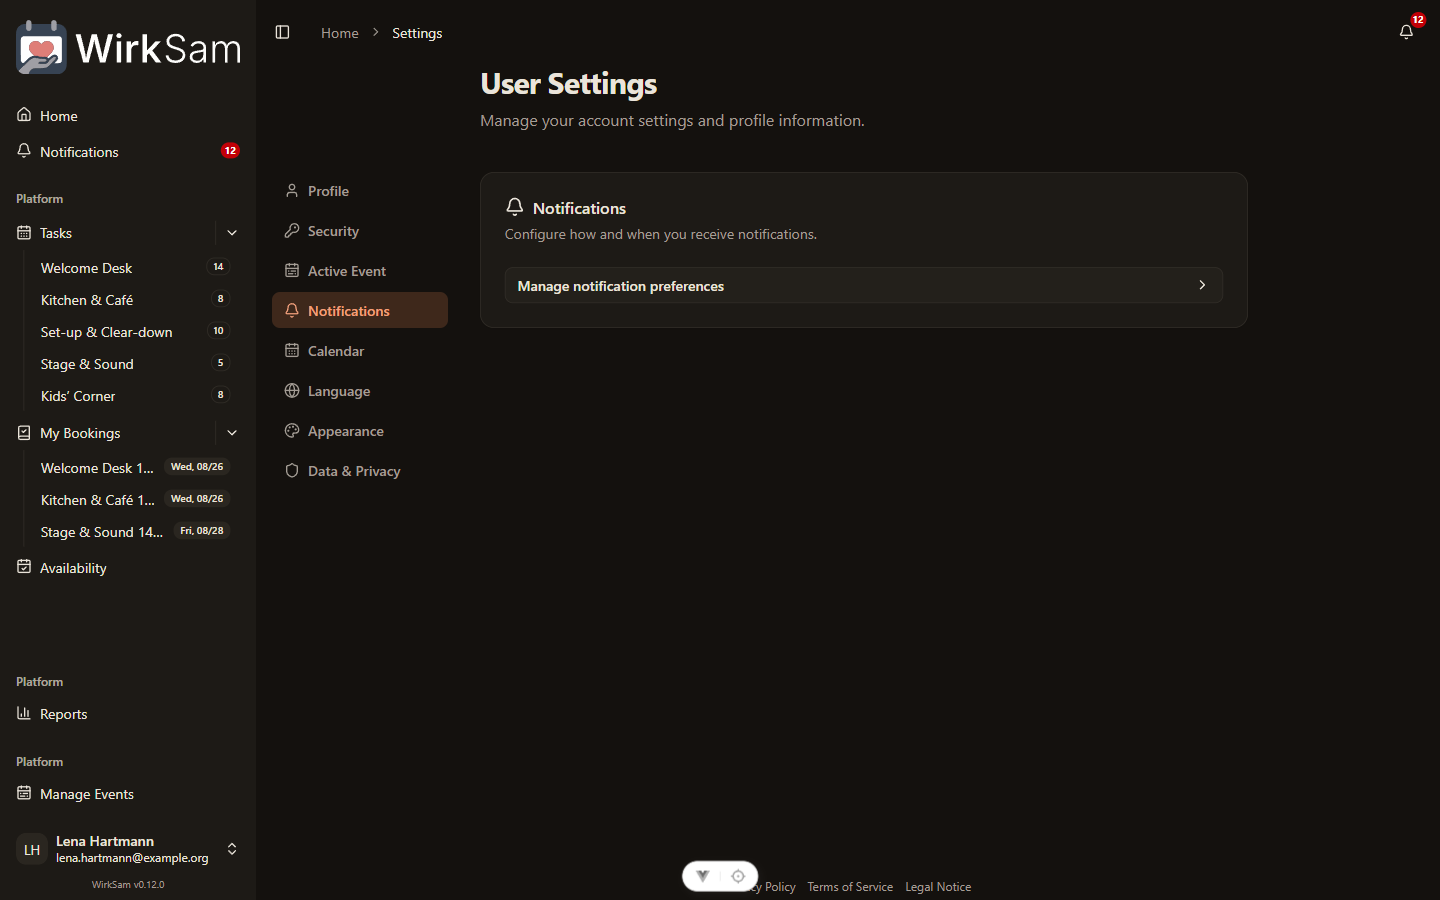
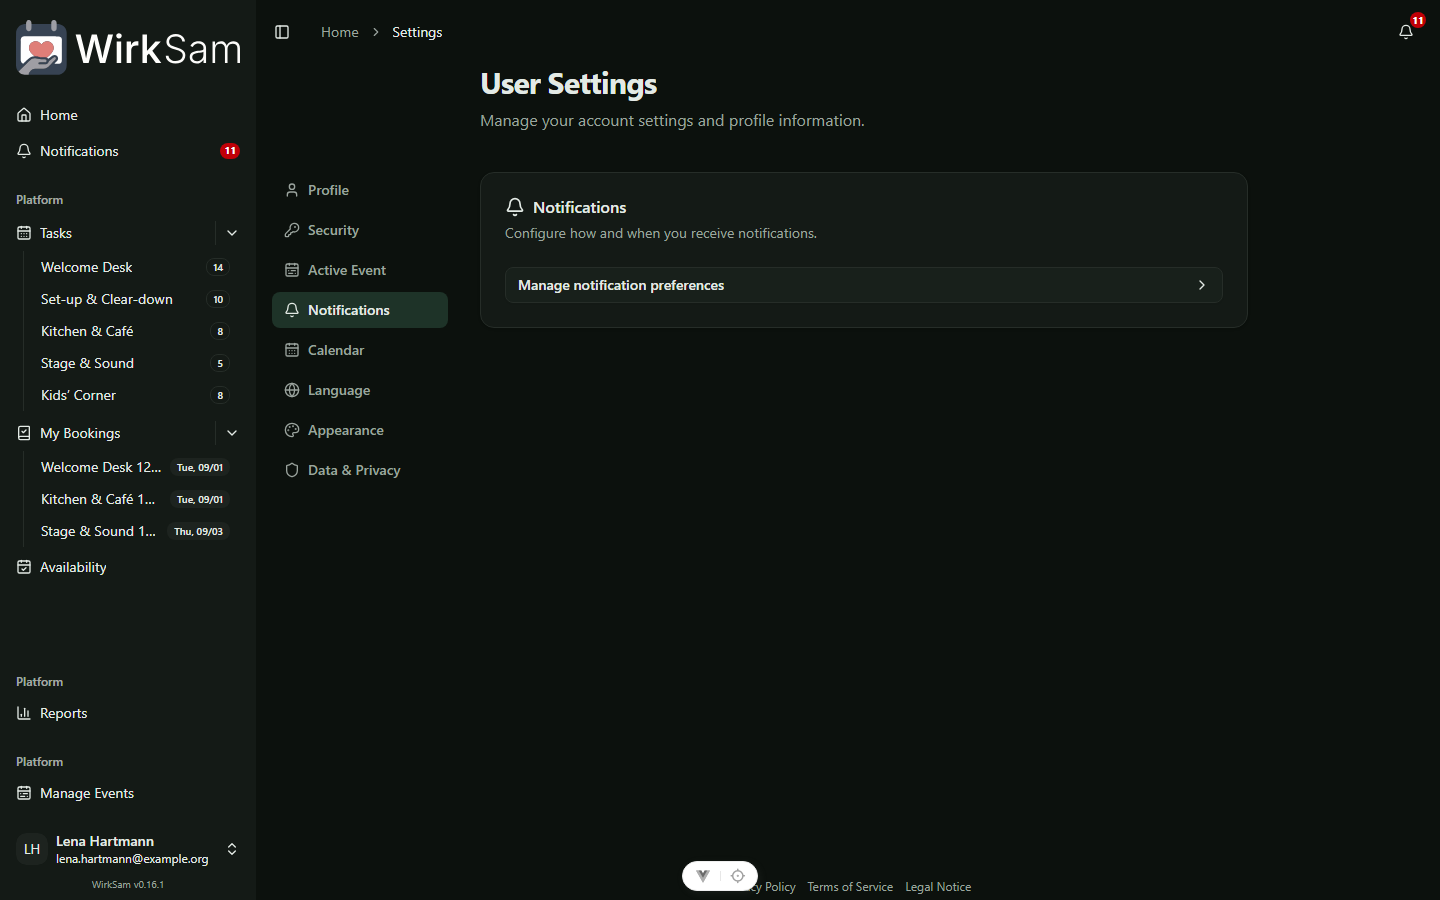
feat(theme): recast the dark palette away from brown
The dark theme was the light one dimmed: hue 75 at L 0.945 reads as
paper, which is why the cream works, but the same hue at L 0.18 reads
as mud. Move the dark neutrals into the primary's own hue family (~155)
at a chroma low enough to stay grey, so green is the only strong colour
on the screen. Light mode is untouched.

`--hero-speck` goes amber to green-gold and drops 35% to 22%. It lights
the landing gradients, and an orange glow over a green-grey ground mixes
straight back into the brown this palette exists to avoid.

Split `--warning` out of `--accent`. Accent is the shadcn hover surface,
but the shift board's "still needs someone" chip and the daily-window
handles were borrowing `--accent-foreground` for a status, so the one
token painting every hover state in the app had to stay amber to keep
that status legible — and every dark surface inherited the warmth. The
chip now mirrors `full`'s shape against `--warning`; the handles use
`--foreground`, since they sit on a green bar and need to contrast with
the primary rather than carry a status.

A warm hue at low alpha over a dark ground still remixes to brown, so
the chip carries its signal in a bright border (55%) over a fill dropped
to 8% rather than a saturated fill. Dropping the fill entirely was worse
— the tiles read as holes punched in the card.

Regenerate the product screenshots for both locales and both modes. They
also pick up the version footer (v0.12.0 to v0.16.1) and fresh dates,
both of which had gone stale.

diff --git a/frontend/src/index.css b/frontend/src/index.css
@@ -26,6 +26,7 @@
   --color-muted-foreground: var(--muted-foreground);
   --color-accent: var(--accent);
   --color-accent-foreground: var(--accent-foreground);
+  --color-warning: var(--warning);
   --color-destructive: var(--destructive);
   --color-destructive-foreground: var(--destructive-foreground);
   --color-border: var(--border);
@@ -165,12 +166,19 @@
 /* ─────────────────────────────────────────────────────────────────────────
    Palettes
    Two palettes × two modes = four blocks.
-     Default (earthy)  — warm cream + forest/terracotta. Selected when the
-                         <html> element has no .palette-* class.
+     Default           — warm cream in light, forest-cast grey in dark, green
+                         throughout. Selected when the <html> element has no
+                         .palette-* class.
      Classic (mono)    — original monochrome shadcn look. Opt-in via
                          <html class="palette-classic">.
    Dark mode is orthogonal: any palette + .dark on the same element.
    The palette class is set by usePalette(); .dark by useColorMode().
+
+   `--accent` is the shadcn hover/selected *surface* and nothing more. The
+   "a shift still needs someone" signal has its own `--warning`, because it
+   used to ride on `--accent-foreground` — which meant the one token that
+   paints every hover state in the app had to stay amber to keep a status
+   legible, and every dark surface inherited that warmth as brown.
    ───────────────────────────────────────────────────────────────────────── */
 
 /* Default palette — light (earthy) */
@@ -194,7 +202,8 @@
   --muted: oklch(0.91 0.022 78);
   --muted-foreground: oklch(0.43 0.013 70);
   --accent: oklch(0.90 0.038 50);
-  --accent-foreground: oklch(0.50 0.13 45);
+  --accent-foreground: oklch(0.27 0.012 60);
+  --warning: oklch(0.50 0.13 45);
   --destructive: oklch(0.46 0.13 17);
   --destructive-foreground: oklch(0.965 0.014 80);
   --border: oklch(0.87 0.025 80);
@@ -216,43 +225,56 @@
   --sidebar-ring: oklch(0.55 0.06 145);
 }
 
-/* Default palette — dark (warm earthy dark) */
+/* Default palette — dark (forest-cast)
+   Deliberately not the light palette dimmed. Hue 75 at L 0.945 reads as paper,
+   which is why the cream works; the same hue at L 0.18 reads as mud, which is
+   what the earlier dark theme was. So the neutrals here sit in the *primary's*
+   hue family (~155) at a chroma low enough to still read as grey, and green is
+   left as the only strong colour on the screen. */
 .dark {
-  --background: oklch(0.18 0.008 75);
-  --foreground: oklch(0.92 0.015 80);
-  --card: oklch(0.22 0.010 75);
-  --card-foreground: oklch(0.92 0.015 80);
-  --popover: oklch(0.22 0.010 75);
-  --popover-foreground: oklch(0.92 0.015 80);
+  --background: oklch(0.17 0.010 155);
+  --foreground: oklch(0.93 0.010 155);
+  --card: oklch(0.21 0.012 155);
+  --card-foreground: oklch(0.93 0.010 155);
+  --popover: oklch(0.21 0.012 155);
+  --popover-foreground: oklch(0.93 0.010 155);
   --primary: oklch(0.65 0.10 145);
-  --primary-foreground: oklch(0.18 0.008 75);
+  --primary-foreground: oklch(0.17 0.010 155);
   --hero: oklch(0.30 0.04 145);
-  --hero-foreground: oklch(0.92 0.015 80);
-  --hero-speck: oklch(0.76 0.135 75);
-  --hero-speck-opacity: 35%;
-  --secondary: oklch(0.27 0.012 75);
-  --secondary-foreground: oklch(0.92 0.015 80);
-  --muted: oklch(0.27 0.012 75);
-  --muted-foreground: oklch(0.70 0.014 75);
-  --accent: oklch(0.30 0.040 50);
-  --accent-foreground: oklch(0.78 0.110 45);
+  --hero-foreground: oklch(0.93 0.010 155);
+  /* Green-gold, not the amber the light palette uses: this speck lights the
+     landing gradients, and an orange glow over a green-grey ground mixes back
+     into exactly the brown this palette exists to avoid. */
+  --hero-speck: oklch(0.72 0.11 130);
+  --hero-speck-opacity: 22%;
+  --secondary: oklch(0.25 0.012 155);
+  --secondary-foreground: oklch(0.93 0.010 155);
+  --muted: oklch(0.25 0.012 155);
+  --muted-foreground: oklch(0.71 0.014 155);
+  --accent: oklch(0.30 0.035 160);
+  --accent-foreground: oklch(0.93 0.010 155);
+  /* Gold rather than amber, and lighter than the light palette's terracotta.
+     A warm hue at low alpha over a dark ground mixes back to brown, so the
+     signal has to come from a bright border rather than a saturated fill —
+     see the chip classes in ShiftBoardConcept.vue. */
+  --warning: oklch(0.86 0.12 88);
   --destructive: oklch(0.62 0.18 17);
-  --destructive-foreground: oklch(0.92 0.015 80);
-  --border: oklch(0.30 0.012 75);
-  --input: oklch(0.30 0.012 75);
+  --destructive-foreground: oklch(0.93 0.010 155);
+  --border: oklch(0.29 0.014 155);
+  --input: oklch(0.29 0.014 155);
   --ring: oklch(0.55 0.06 145);
   --chart-1: oklch(0.65 0.10 145);
   --chart-2: oklch(0.70 0.13 45);
   --chart-3: oklch(0.80 0.13 75);
   --chart-4: oklch(0.65 0.07 235);
   --chart-5: oklch(0.62 0.18 17);
-  --sidebar: oklch(0.22 0.010 75);
-  --sidebar-foreground: oklch(0.92 0.015 80);
+  --sidebar: oklch(0.21 0.012 155);
+  --sidebar-foreground: oklch(0.93 0.010 155);
   --sidebar-primary: oklch(0.65 0.10 145);
-  --sidebar-primary-foreground: oklch(0.18 0.008 75);
-  --sidebar-accent: oklch(0.27 0.012 75);
-  --sidebar-accent-foreground: oklch(0.92 0.015 80);
-  --sidebar-border: oklch(0.30 0.012 75);
+  --sidebar-primary-foreground: oklch(0.17 0.010 155);
+  --sidebar-accent: oklch(0.25 0.012 155);
+  --sidebar-accent-foreground: oklch(0.93 0.010 155);
+  --sidebar-border: oklch(0.29 0.014 155);
   --sidebar-ring: oklch(0.55 0.06 145);
 }
 
@@ -276,6 +298,7 @@
   --muted-foreground: oklch(0.556 0 0);
   --accent: oklch(0.97 0 0);
   --accent-foreground: oklch(0.205 0 0);
+  --warning: oklch(0.58 0.14 55);
   --destructive: oklch(0.577 0.245 27.325);
   --destructive-foreground: oklch(0.577 0.245 27.325);
   --border: oklch(0.922 0 0);
@@ -316,6 +339,7 @@
   --muted-foreground: oklch(0.708 0 0);
   --accent: oklch(0.269 0 0);
   --accent-foreground: oklch(0.985 0 0);
+  --warning: oklch(0.78 0.13 65);
   --destructive: oklch(0.637 0.237 25.331);
   --destructive-foreground: oklch(0.985 0 0);
   --border: oklch(0.269 0 0);
@@ -393,6 +417,7 @@
     --secondary-foreground: oklch(0.205 0 0) !important;
     --accent: oklch(0.97 0 0) !important;
     --accent-foreground: oklch(0.205 0 0) !important;
+    --warning: oklch(0.50 0.13 45) !important;
     --input: oklch(0.922 0 0) !important;
   }
 

diff --git a/frontend/src/components/layout/ThemePreview.vue b/frontend/src/components/layout/ThemePreview.vue
@@ -19,7 +19,11 @@ const props = withDefaults(
 )
 
 /** Hardcoded swatches (not CSS vars) so each tile shows its OWN palette,
-    not whichever one is currently active. Keep in sync with index.css. */
+    not whichever one is currently active. Keep in sync with index.css.
+
+    `accent` here is the tile's dot — the palette's signal colour, i.e.
+    `--warning`, not the `--accent` hover surface, which is too close to the
+    card to show up at 64×48. */
 const SWATCHES: Record<
   Palette,
   Record<
@@ -33,16 +37,16 @@ const SWATCHES: Record<
       card: 'oklch(0.965 0.014 80)',
       border: 'oklch(0.87 0.025 80)',
       primary: 'oklch(0.40 0.072 145)',
-      accent: 'oklch(0.62 0.135 45)',
+      accent: 'oklch(0.50 0.13 45)',
       fg: 'oklch(0.27 0.012 60)',
     },
     dark: {
-      bg: 'oklch(0.18 0.008 75)',
-      card: 'oklch(0.22 0.010 75)',
-      border: 'oklch(0.30 0.012 75)',
+      bg: 'oklch(0.17 0.010 155)',
+      card: 'oklch(0.21 0.012 155)',
+      border: 'oklch(0.29 0.014 155)',
       primary: 'oklch(0.65 0.10 145)',
-      accent: 'oklch(0.70 0.13 45)',
-      fg: 'oklch(0.92 0.015 80)',
+      accent: 'oklch(0.86 0.12 88)',
+      fg: 'oklch(0.93 0.010 155)',
     },
   },
   classic: {
@@ -51,7 +55,7 @@ const SWATCHES: Record<
       card: 'oklch(0.985 0 0)',
       border: 'oklch(0.922 0 0)',
       primary: 'oklch(0.205 0 0)',
-      accent: 'oklch(0.97 0 0)',
+      accent: 'oklch(0.58 0.14 55)',
       fg: 'oklch(0.145 0 0)',
     },
     dark: {
@@ -59,7 +63,7 @@ const SWATCHES: Record<
       card: 'oklch(0.205 0 0)',
       border: 'oklch(0.269 0 0)',
       primary: 'oklch(0.985 0 0)',
-      accent: 'oklch(0.269 0 0)',
+      accent: 'oklch(0.78 0.13 65)',
       fg: 'oklch(0.985 0 0)',
     },
   },

diff --git a/frontend/src/components/landing/ShiftBoardConcept.vue b/frontend/src/components/landing/ShiftBoardConcept.vue
@@ -87,15 +87,18 @@ const openPlaces = computed(() =>
 
 const legend: Fill[] = ['full', 'partial', 'open']
 
+// `partial` mirrors `full`'s shape against `--warning` rather than `--primary`,
+// so the two states differ by hue alone and stay apart in both themes. It used
+// to borrow `--accent`, which is the hover surface — see the note in index.css.
 const chipClass: Record<Fill, string> = {
   full: 'border-primary/35 bg-primary/12 text-foreground',
-  partial: 'border-accent-foreground/35 bg-accent/50 text-foreground',
+  partial: 'border-warning/55 bg-warning/8 text-foreground',
   open: 'border-dashed border-border bg-transparent text-muted-foreground',
 }
 
 const dotClass: Record<Fill, string> = {
   full: 'bg-primary',
-  partial: 'bg-accent-foreground',
+  partial: 'bg-warning',
   open: 'border border-dashed border-muted-foreground/60',
 }
 

diff --git a/frontend/src/components/events/DailyWindowPicker.vue b/frontend/src/components/events/DailyWindowPicker.vue
@@ -105,14 +105,14 @@ const ticks = [0, 3, 6, 9, 12, 15, 18, 21, 24]
         :style="{ left: `${fromPct}%`, transform: 'translateX(-50%)' }"
         @pointerdown="(e) => handleDown('from', e)"
       >
-        <div class="bg-accent-foreground h-7 w-1 rounded-sm shadow-sm" />
+        <div class="bg-foreground h-7 w-1 rounded-sm shadow-sm" />
       </div>
       <div
         class="absolute top-0 bottom-0 flex w-5 cursor-ew-resize items-center justify-center"
         :style="{ left: `${toPct}%`, transform: 'translateX(-50%)' }"
         @pointerdown="(e) => handleDown('to', e)"
       >
-        <div class="bg-accent-foreground h-7 w-1 rounded-sm shadow-sm" />
+        <div class="bg-foreground h-7 w-1 rounded-sm shadow-sm" />
       </div>
     </div>
 
